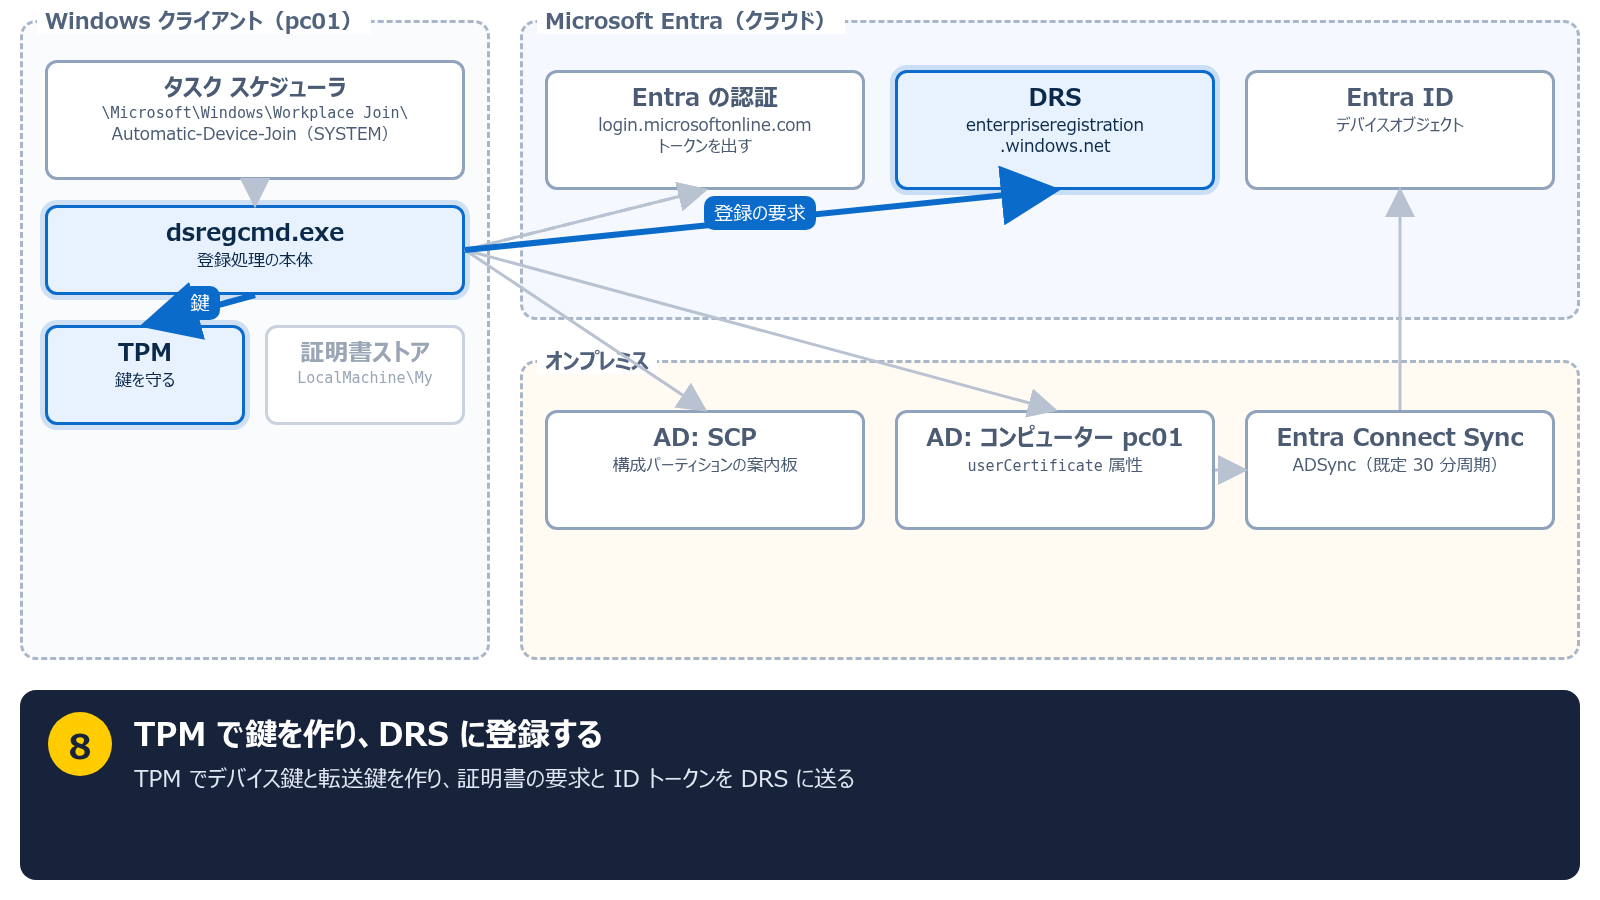
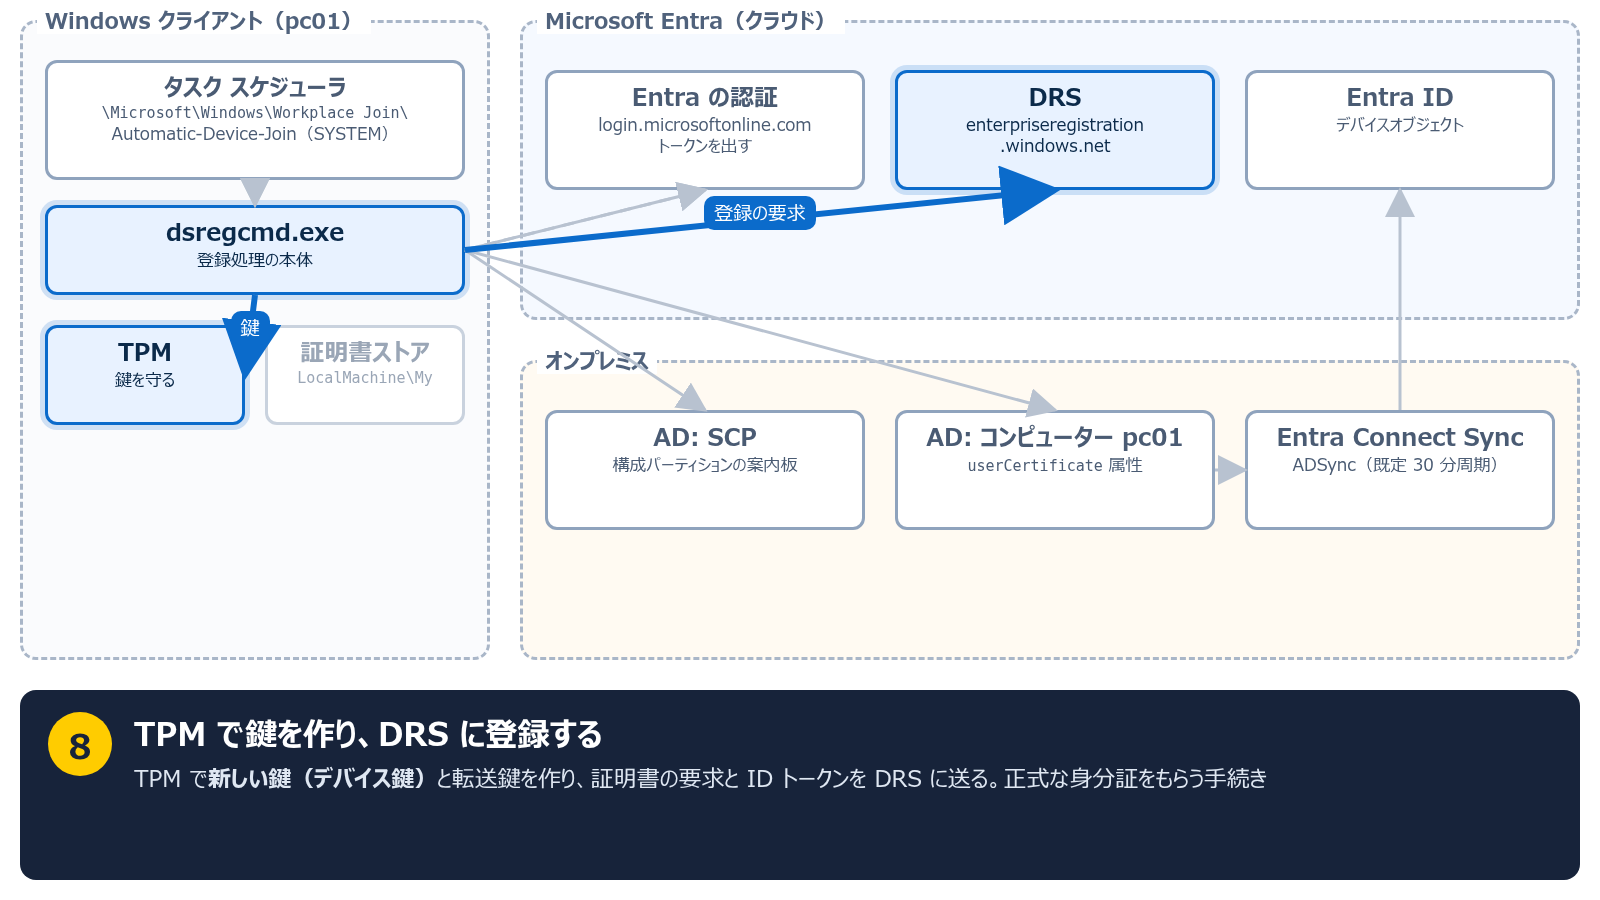
docs: clarify keys and certificates in the HCCJP 79 deck (#68)
* docs: clarify keys and certificates in the HCCJP 79 frames

* docs: define the domain credential in the HCCJP 79 demo 3 slide

---------

Changed region(s): [[0.125, 0.84, 0.7812, 0.9022], [0.0938, 0.3111, 0.1875, 0.4044]]

diff --git a/HCCJP_79/session/lab.html b/HCCJP_79/session/lab.html
@@ -6,5 +6,5 @@
 <div class="box" style="left:500px;top:520px;width:390px;height:170px"><b>pc02</b>Windows 11 26200.9711<br>vTPM / ドメイン参加</div>
 <div class="box cloud" style="left:1040px;top:170px;width:490px;height:210px"><b>Cloud Sync 構成</b>ユーザーとグループだけ同期<br>デバイスは同期しない<br>同期の有効化が TDO の前提</div>
 <div class="box cloud ok" style="left:1040px;top:430px;width:490px;height:260px"><b>Device Registration Service</b>SPN: adrs/enterpriseregistration<br>.windows.net<br>タグ: KerberosPolicy:<br>ExchangeForJwt</div>
-<div class="note" style="left:70px;top:740px;color:#c62828">Entra Connect Sync は入れていない</div>
+<div class="note" style="left:70px;top:730px;color:#c62828">Entra Connect Sync は入れていない<br><span style="color:#50627c;font-size:22px">PC の TPM は Hyper-V の仮想 TPM。鍵を守るのは物理チップではなくホスト</span></div>
 </body></html>

diff --git a/HCCJP_79/session/frames/gen.py b/HCCJP_79/session/frames/gen.py
@@ -103,8 +103,8 @@ OLD = [
      "lit": ["task", "dsreg"], "arrows": [("task", "b", "dsreg", "t", "起動")]},
     {"n": "2", "title": "SCP を読んで、登録先を知る", "desc": "LDAP で AD の構成パーティションにある SCP を読む。<code>azureADName</code> / <code>azureADId</code> から、どのテナントに登録するかが分かる",
      "lit": ["dsreg", "scp"], "arrows": [("dsreg", "r", "scp", "t", "LDAP で読む")]},
-    {"n": "3", "title": "自己署名証明書を AD に書く", "desc": "PC が自分で証明書を作り、自分のコンピューター オブジェクトの <code>userCertificate</code> に書く。<b>証明書の名前がそのままデバイス ID になる</b>（実機で確認）",
-     "lit": ["dsreg", "comp"], "badge": {"comp": "証明書あり"}, "arrows": [("dsreg", "r", "comp", "t", "LDAP で書く")]},
+    {"n": "3", "title": "仮の身分証（自己署名証明書）を作って AD に置く", "desc": "<b>鍵は TPM で作る</b>。その鍵で自己署名証明書を作り、<b>証明書ストアには入れず</b> AD の <code>userCertificate</code> にだけ書く。証明書の名前がそのままデバイス ID になる（実機で確認）",
+     "lit": ["dsreg", "tpm", "comp"], "badge": {"comp": "仮の身分証"}, "arrows": [("dsreg", "b", "tpm", "r"), ("dsreg", "r", "comp", "t", "LDAP で書く")]},
     {"n": "4", "title": "まだ認証できない", "desc": "証明書で Entra に認証しようとしても、Entra にはまだこの PC がいない。<b>「デバイスが見つからない」で失敗</b>し、次のきっかけ（最長1時間後）を待つ",
      "lit": ["dsreg", "login"], "bad": ["login"], "badge": {"login": "見つからない"}, "arrows": [("dsreg", "r", "login", "b", "証明書で認証", "bad")]},
     {"n": "5", "title": "同期サーバーが変更を拾う", "desc": "Entra Connect Sync が、次の同期サイクル（<b>既定 30 分周期</b>）で <code>userCertificate</code> の付いたコンピューターを読み取る",
@@ -113,23 +113,23 @@ OLD = [
      "lit": ["sync", "entra"], "badge": {"entra": "pc01（保留）"}, "arrows": [("sync", "t", "entra", "b", "デバイスを同期")]},
     {"n": "7", "title": "次のタスク実行で、やっと認証できる", "desc": "サインインか1時間ごとの実行で、タスクがもう一度動く。今度は Entra に自分がいるので、証明書の秘密鍵で認証して <b>ID トークン</b>をもらえる",
      "lit": ["task", "dsreg", "login"], "good": ["login"], "badge": {"login": "ID トークン"}, "arrows": [("task", "b", "dsreg", "t"), ("dsreg", "r", "login", "b", "証明書で認証")]},
-    {"n": "8", "title": "TPM で鍵を作り、DRS に登録する", "desc": "TPM でデバイス鍵と転送鍵を作り、証明書の要求と ID トークンを DRS に送る",
-     "lit": ["tpm", "dsreg", "drs"], "arrows": [("dsreg", "b", "tpm", "t", "鍵"), ("dsreg", "r", "drs", "b", "登録の要求")]},
-    {"n": "9", "title": "デバイス証明書を受け取って完了", "desc": "DRS がデバイス証明書（発行者 <code>MS-Organization-Access</code>）を返し、証明書ストアに入る。<code>dsregcmd /status</code> が <b>AzureAdJoined : YES</b> になる",
+    {"n": "8", "title": "TPM で鍵を作り、DRS に登録する", "desc": "TPM で<b>新しい鍵（デバイス鍵）</b>と転送鍵を作り、証明書の要求と ID トークンを DRS に送る。正式な身分証をもらう手続き",
+     "lit": ["tpm", "dsreg", "drs"], "arrows": [("dsreg", "b", "tpm", "r", "鍵"), ("dsreg", "r", "drs", "b", "登録の要求")]},
+    {"n": "9", "title": "正式な身分証（デバイス証明書）を受け取って完了", "desc": "DRS がデバイス証明書（発行者 <code>MS-Organization-Access</code>）を返し、<b>こちらは証明書ストアに入る</b>。<code>dsregcmd /status</code> が <b>AzureAdJoined : YES</b> になる",
      "lit": ["drs", "store", "entra"], "good": ["store", "entra"], "badge": {"store": "デバイス証明書", "entra": "pc01（登録済み）"}, "arrows": [("drs", "b", "store", "r", "証明書を返す")]},
 ]
 NEW = [
     {"n": "0", "title": "新しい方式の登場人物", "desc": "同期サーバーの代わりに、<b>WS2025 の DC の KDC</b> と <b>Entra の Kerberos</b> が登場する。PC 側の入口は同じタスク スケジューラ", "lit": []},
     {"n": "1", "title": "タスクが起動し、SCP を読む", "desc": "ここまでは従来と同じ。<code>Automatic-Device-Join</code> が <code>dsregcmd.exe</code> を動かし、SCP から登録先のテナントを知る",
      "lit": ["task", "dsreg", "scp"], "arrows": [("task", "b", "dsreg", "t"), ("dsreg", "r", "scp", "t", "LDAP で読む")]},
-    {"n": "2", "title": "新方式を試す: DEVICE_AUTO_KERB", "desc": "ビルドが新しい Windows 11 は、まず Kerberos での参加を試す。<b>クライアントに追加の設定は要らない</b>。自己署名証明書も従来どおり AD に書かれる（実機で確認）",
+    {"n": "2", "title": "新方式を試す: DEVICE_AUTO_KERB", "desc": "ビルドが新しい Windows 11 は、まず Kerberos での参加を試す。<b>本人確認を Kerberos チケットで行う</b>。クライアントに追加の設定は要らない。仮の身分証も従来どおり AD に書かれる（実機で確認）",
      "lit": ["dsreg", "lsa", "comp"], "badge": {"comp": "証明書あり"}, "arrows": [("dsreg", "b", "lsa", "t", "チケットを要求"), ("dsreg", "r", "comp", "t")]},
     {"n": "3", "title": "DC から TGT と「紹介状」をもらう", "desc": "PC のコンピューター アカウントで DC から TGT を取り、<b>TDO があるので</b> Entra 宛ての紹介チケット <code>krbtgt/KERBEROS.MICROSOFTONLINE.COM</code> ももらう",
      "lit": ["lsa", "kdc"], "badge": {"kdc": "紹介状を発行"}, "arrows": [("lsa", "r", "kdc", "l", "Kerberos")]},
     {"n": "4", "title": "Entra の KDC からチケットをもらう", "desc": "紹介状を HTTPS で Entra の Kerberos に出し、<b>DRS 宛てのサービス チケット</b> <code>adrs/enterpriseregistration.windows.net</code> をもらう",
      "lit": ["lsa", "ekdc"], "good": ["ekdc"], "arrows": [("lsa", "r", "ekdc", "b", "KDC プロキシ（HTTPS）")]},
     {"n": "5", "title": "チケットを身分証にして DRS に登録", "desc": "チケットを DRS に出す。DRS はタグ <code>KerberosPolicy:ExchangeForJwt</code> によってチケットを受け付け、Entra にデバイスがいなくても PC を確認できる",
-     "lit": ["dsreg", "drs", "tpm"], "arrows": [("dsreg", "b", "tpm", "t", "鍵"), ("dsreg", "r", "drs", "b", "チケット＋登録の要求")]},
+     "lit": ["dsreg", "drs", "tpm"], "arrows": [("dsreg", "b", "tpm", "r", "鍵"), ("dsreg", "r", "drs", "b", "チケット＋登録の要求")]},
     {"n": "6", "title": "その場で完了", "desc": "DRS がデバイスを作ってデバイス証明書を返す。<b>同期を待つ工程が無い</b>。デモ環境では 16〜18 秒で終わった",
      "lit": ["drs", "store", "entra"], "good": ["store", "entra"], "badge": {"store": "デバイス証明書", "entra": "pc01（登録済み）"}, "arrows": [("drs", "r", "entra", "l", "作成"), ("drs", "b", "store", "r", "証明書を返す")]},
 ]
